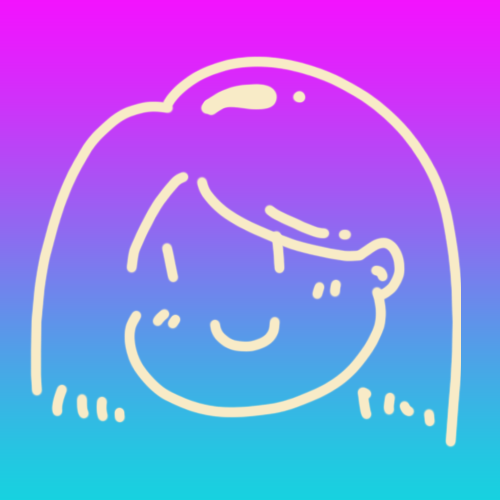
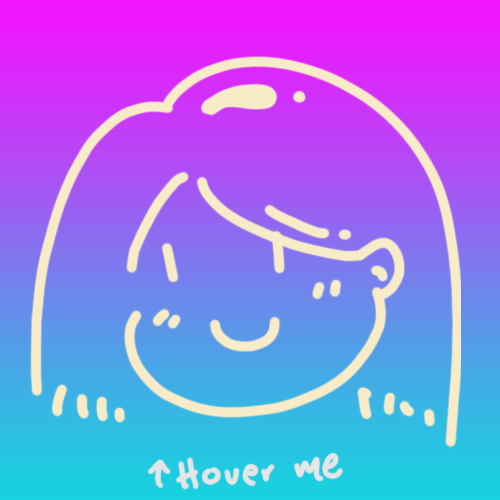
Crossfading image agregada en sección intro

Changed region(s): [[0.3, 0.9, 0.69, 0.99]]

diff --git a/Assets/css/main.css b/Assets/css/main.css
@@ -73,6 +73,21 @@ nav img{
     color: aliceblue;
 }
 
+#photo-crossfade {
+    background-image: url('../../Assets/img/MARphoto.png');
+    background-size: contain;
+}
+#photo-crossfade img {
+	-webkit-transition: all ease 1s;
+	-moz-transition: all ease 1s;
+	-o-transition: all ease 1s;
+	-ms-transition: all ease 1s;
+	transition: all ease 1s;
+}
+#photo-crossfade img:hover {
+	opacity: 0;
+}
+
 .video {
     display: flex;
     justify-content: center;
@@ -106,14 +121,24 @@ nav img{
 }
 .grid-container img{
     width: 200px;
+    -moz-transition: all 0.3s;
+    -webkit-transition: all 0.3s;
+    transition: all 0.3s;
 
     display: flex;
     flex-direction: column;
     justify-content: center;
     align-items: center;
 }
+.grid-container img:hover{
+    -webkit-transform: scale(1.04);
+    -moz-transform: scale(1.04);
+    -o-transform: scale(1.04);
+    -ms-transform: scale(1.04);
+    transform: scale(1.14);
+}
 .grid-container h3{
-    font-family: 'Montserrat', cursive;;
+    font-family: 'Montserrat', cursive;
     font-size: 30px;
     color: aliceblue;
 }

diff --git a/index.html b/index.html
@@ -37,7 +37,9 @@
     </section>
 
     <section class="two-col">
-            <img src="Assets/img/MARdoodle.png" alt="Marina Doodle" width="400vh">
+        <div id="photo-crossfade">
+            <img class="doodle" src="Assets/img/MARdoodle.png" alt="Marina Doodle" width="400vh">
+        </div>
             <p>
                 Lorem ipsum dolor sit amet, consectetur adipiscing elit, sed do eiusmod tempor incididunt ut labore et dolore magna aliqua. Ut enim ad minim veniam, quis nostrud exercitation ullamco laboris nisi ut aliquip ex ea commodo consequat. Duis aute irure dolor in reprehenderit in voluptate velit esse cillum dolore eu fugiat nulla pariatur. Excepteur sint occaecat cupidatat non proident, sunt in culpa qui officia deserunt mollit anim id est laborum.
             <br>
